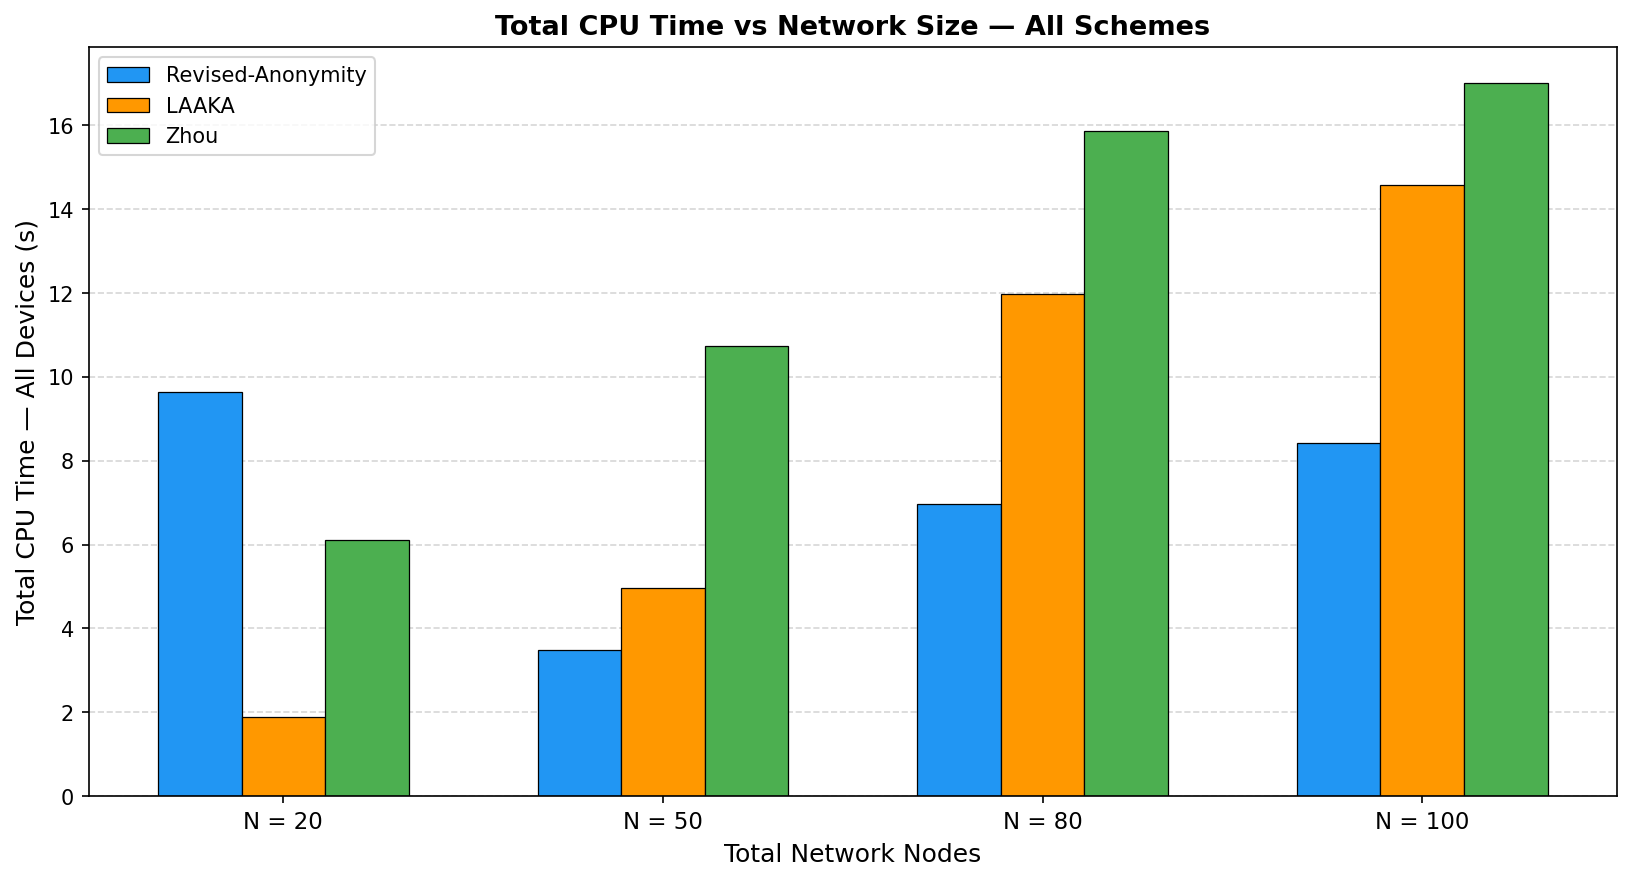
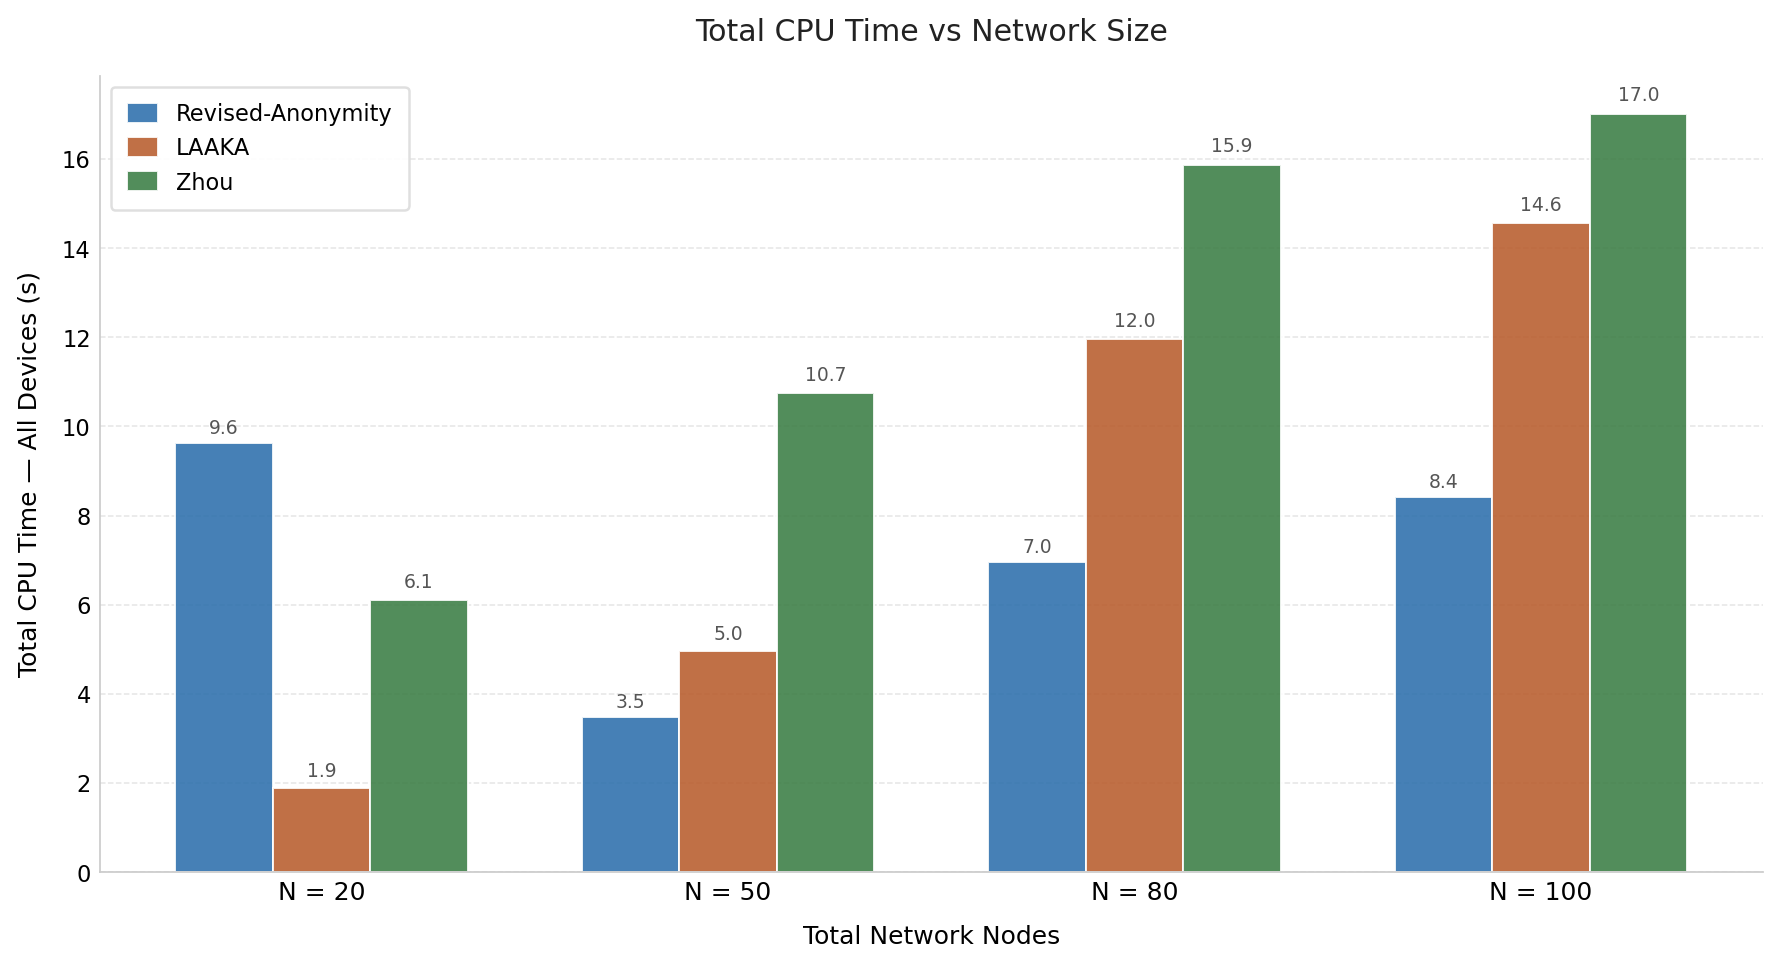
Redesign charts 12 & 13: muted palette, clean typography, value labels
- Muted academic colour palette (steel blue, terracotta, forest green)
- Remove top/right spines; subtle dashed grid; no x-tick marks
- Light font weights; consistent 10pt sizing throughout
- Value labels above each bar for direct readability
- Shared _grouped_bar() renderer to avoid duplication

diff --git a/Scripts/Simulation-Runners/plot_network_variation.py b/Scripts/Simulation-Runners/plot_network_variation.py
@@ -44,14 +44,34 @@ RESULTS = {
 }
 
 SCHEME_COLORS = {
-    "Revised-Anonymity": "#2196F3",   # blue
-    "LAAKA":             "#FF9800",   # orange
-    "Zhou":              "#4CAF50",   # green
+    "Revised-Anonymity": "#2C6FAC",   # deep steel blue
+    "LAAKA":             "#B85C2C",   # muted terracotta
+    "Zhou":              "#3A7D44",   # muted forest green
 }
 SCHEME_MARKERS = {
     "Revised-Anonymity": "o",
     "LAAKA":             "s",
     "Zhou":              "^",
+}
+
+# Global aesthetic style applied to both charts
+_CHART_STYLE = {
+    "font.family":        "DejaVu Sans",
+    "font.size":          10,
+    "axes.titlesize":     12,
+    "axes.titleweight":   "normal",
+    "axes.labelsize":     10,
+    "axes.spines.top":    False,
+    "axes.spines.right":  False,
+    "axes.linewidth":     0.7,
+    "xtick.labelsize":    10,
+    "ytick.labelsize":    9,
+    "xtick.major.size":   0,
+    "legend.fontsize":    9,
+    "legend.framealpha":  0.9,
+    "legend.edgecolor":   "#cccccc",
+    "grid.color":         "#e5e5e5",
+    "grid.linewidth":     0.6,
 }
 
 PHASE_LABELS = {
@@ -272,101 +292,97 @@ PHASE_COLORS = {
     "Key Exchange":   "#A5D6A7",   # light green
 }
 
-def total_energy_grouped_bar(out_path, show=False):
+def _grouped_bar(metric, ylabel, title, out_path, show=False):
     """
-    X-axis: network size groups (N=20, 50, 80, 100).
-    3 bars per group — one per scheme, colour-coded by scheme.
-    Bar height = total energy across ALL phases × n_devices (no phase stacking).
+    Shared renderer for charts 12 and 13.
+    metric : "avg_energy" | "avg_cpu"
     """
     phases  = ["Enrollment", "Authentication", "Key Exchange"]
     schemes = list(RESULTS.keys())
     n_s     = len(schemes)
     x       = np.arange(len(SIZES))
-    width   = 0.22
+    width   = 0.24
 
-    fig, ax = plt.subplots(figsize=(11, 6))
+    with plt.rc_context(_CHART_STYLE):
+        fig, ax = plt.subplots(figsize=(10, 5.5))
+        fig.patch.set_facecolor("white")
 
-    for si, scheme in enumerate(schemes):
-        offsets   = x + (si - (n_s - 1) / 2) * width
-        bar_totals = []
-        for n in SIZES:
-            d   = load_summary(scheme, n)
-            tot = 0.0
-            if d:
-                for phase in phases:
-                    if phase in d:
-                        tot += d[phase]["avg_energy"] * d[phase]["n_devices"]
-            bar_totals.append(tot)
+        all_totals = []
+        for si, scheme in enumerate(schemes):
+            offsets    = x + (si - (n_s - 1) / 2) * width
+            bar_totals = []
+            for n in SIZES:
+                d   = load_summary(scheme, n)
+                tot = 0.0
+                if d:
+                    for phase in phases:
+                        if phase in d:
+                            key = "avg_energy" if metric == "avg_energy" else "avg_cpu"
+                            tot += d[phase][key] * d[phase]["n_devices"]
+                bar_totals.append(tot)
+            all_totals.append(max(bar_totals))
 
-        ax.bar(offsets, bar_totals, width,
-               label=scheme,
-               color=SCHEME_COLORS[scheme],
-               edgecolor="black", linewidth=0.6)
+            color = SCHEME_COLORS[scheme]
+            bars  = ax.bar(offsets, bar_totals, width,
+                           label=scheme,
+                           color=color, alpha=0.88,
+                           edgecolor="white", linewidth=0.8)
 
-    ax.set_xticks(x)
-    ax.set_xticklabels([f"N = {n}" for n in SIZES], fontsize=11)
-    ax.set_xlabel("Total Network Nodes", fontsize=12)
-    ax.set_ylabel("Total Energy — All Devices (mJ)", fontsize=12)
-    ax.set_title("Total Energy Consumption vs Network Size — All Schemes",
-                 fontsize=13, fontweight="bold")
-    ax.yaxis.grid(True, linestyle="--", alpha=0.5)
-    ax.set_axisbelow(True)
-    ax.legend(fontsize=10)
+            # value labels on top of each bar
+            for offset, val in zip(offsets, bar_totals):
+                if val > 0:
+                    ax.text(offset, val + max(all_totals + [1]) * 0.012,
+                            f"{val:.0f}" if metric == "avg_energy" else f"{val:.1f}",
+                            ha="center", va="bottom",
+                            fontsize=7.5, color="#555555")
 
-    fig.tight_layout()
-    fig.savefig(out_path, dpi=150, bbox_inches="tight")
-    if show:
-        plt.show()
-    plt.close(fig)
+        ax.set_xticks(x)
+        ax.set_xticklabels([f"N = {n}" for n in SIZES])
+        ax.set_xlabel("Total Network Nodes", labelpad=8)
+        ax.set_ylabel(ylabel, labelpad=8)
+        ax.set_title(title, pad=14, color="#222222")
+
+        # subtle horizontal grid only
+        ax.yaxis.grid(True, linestyle="--", linewidth=0.6, color="#e5e5e5")
+        ax.set_axisbelow(True)
+        ax.tick_params(axis="y", length=0)
+
+        # clean up spines
+        ax.spines["left"].set_color("#cccccc")
+        ax.spines["bottom"].set_color("#cccccc")
+
+        # legend inside, top-left, clean box
+        ax.legend(loc="upper left",
+                  frameon=True, framealpha=0.92,
+                  edgecolor="#dddddd",
+                  handlelength=1.4, handleheight=1.0,
+                  borderpad=0.7)
+
+        fig.tight_layout()
+        fig.savefig(out_path, dpi=180, bbox_inches="tight",
+                    facecolor="white")
+        if show:
+            plt.show()
+        plt.close(fig)
     print(f"  Saved: {os.path.basename(out_path)}")
+
+
+def total_energy_grouped_bar(out_path, show=False):
+    _grouped_bar(
+        "avg_energy",
+        "Total Energy — All Devices (mJ)",
+        "Total Energy Consumption vs Network Size",
+        out_path, show,
+    )
 
 
 def total_cpu_grouped_bar(out_path, show=False):
-    """
-    Same layout as total_energy_grouped_bar but for CPU time (seconds).
-    Bar height = avg_cpu × n_devices summed across all phases.
-    """
-    phases  = ["Enrollment", "Authentication", "Key Exchange"]
-    schemes = list(RESULTS.keys())
-    n_s     = len(schemes)
-    x       = np.arange(len(SIZES))
-    width   = 0.22
-
-    fig, ax = plt.subplots(figsize=(11, 6))
-
-    for si, scheme in enumerate(schemes):
-        offsets   = x + (si - (n_s - 1) / 2) * width
-        bar_totals = []
-        for n in SIZES:
-            d   = load_summary(scheme, n)
-            tot = 0.0
-            if d:
-                for phase in phases:
-                    if phase in d:
-                        tot += d[phase]["avg_cpu"] * d[phase]["n_devices"]
-            bar_totals.append(tot)
-
-        ax.bar(offsets, bar_totals, width,
-               label=scheme,
-               color=SCHEME_COLORS[scheme],
-               edgecolor="black", linewidth=0.6)
-
-    ax.set_xticks(x)
-    ax.set_xticklabels([f"N = {n}" for n in SIZES], fontsize=11)
-    ax.set_xlabel("Total Network Nodes", fontsize=12)
-    ax.set_ylabel("Total CPU Time — All Devices (s)", fontsize=12)
-    ax.set_title("Total CPU Time vs Network Size — All Schemes",
-                 fontsize=13, fontweight="bold")
-    ax.yaxis.grid(True, linestyle="--", alpha=0.5)
-    ax.set_axisbelow(True)
-    ax.legend(fontsize=10)
-
-    fig.tight_layout()
-    fig.savefig(out_path, dpi=150, bbox_inches="tight")
-    if show:
-        plt.show()
-    plt.close(fig)
-    print(f"  Saved: {os.path.basename(out_path)}")
+    _grouped_bar(
+        "avg_cpu",
+        "Total CPU Time — All Devices (s)",
+        "Total CPU Time vs Network Size",
+        out_path, show,
+    )
 
 
 # ─────────────────────────────────────────────────────────────────────────────
